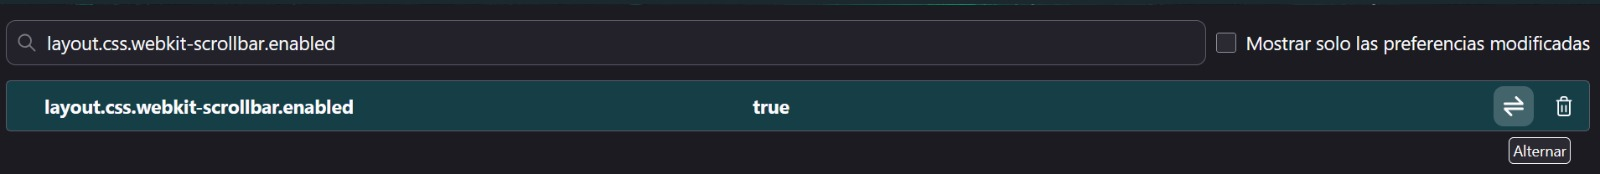
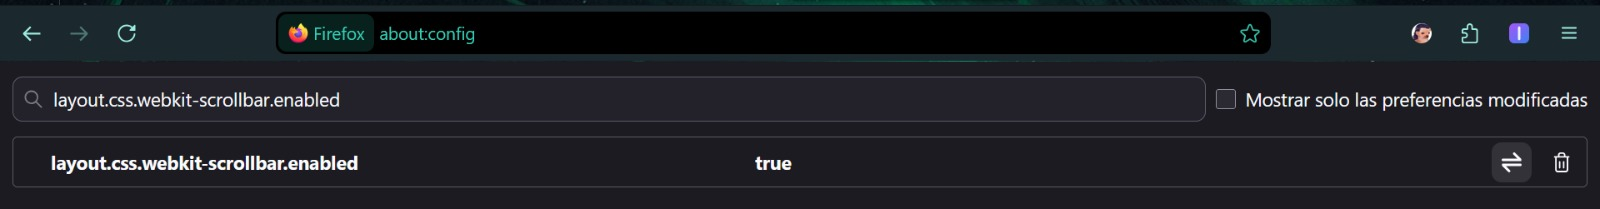
feat: add custom popup interface for Scrollbar Chroma extension including styling, structure, and tutorial lightbox.

diff --git a/popup/popup.css b/popup/popup.css
@@ -346,3 +346,133 @@ footer {
     color: #ffedd5;
 }
 
+/* Tutorial Image Thumbnail */
+.tutorial-image-container {
+    position: relative;
+    width: 100%;
+    max-height: 120px;
+    border-radius: 8px;
+    overflow: hidden;
+    cursor: pointer;
+    border: 1px solid rgba(255, 255, 255, 0.1);
+    box-shadow: 0 4px 12px rgba(0, 0, 0, 0.3);
+    transition: transform 0.2s ease, border-color 0.2s ease;
+    margin-top: 8px;
+}
+
+.tutorial-image-container:hover {
+    transform: translateY(-2px);
+    border-color: rgba(251, 191, 36, 0.5);
+}
+
+.tutorial-thumb {
+    width: 100%;
+    height: 120px;
+    object-fit: cover;
+    display: block;
+    filter: brightness(0.8);
+    transition: filter 0.2s ease;
+}
+
+.tutorial-image-container:hover .tutorial-thumb {
+    filter: brightness(0.95);
+}
+
+.tutorial-overlay {
+    position: absolute;
+    top: 0;
+    left: 0;
+    width: 100%;
+    height: 100%;
+    background: rgba(0, 0, 0, 0.4);
+    display: flex;
+    align-items: center;
+    justify-content: center;
+    opacity: 0;
+    transition: opacity 0.2s ease;
+}
+
+.tutorial-image-container:hover .tutorial-overlay {
+    opacity: 1;
+}
+
+.tutorial-overlay span {
+    color: white;
+    font-size: 11px;
+    font-weight: 600;
+    background: rgba(0, 0, 0, 0.6);
+    padding: 6px 12px;
+    border-radius: 20px;
+    border: 1px solid rgba(255, 255, 255, 0.1);
+    display: flex;
+    align-items: center;
+    gap: 4px;
+}
+
+/* Lightbox Modal */
+.lightbox {
+    display: none;
+    position: fixed;
+    z-index: 999999;
+    left: 0;
+    top: 0;
+    width: 100%;
+    height: 100%;
+    overflow: auto;
+    background-color: rgba(10, 10, 12, 0.85);
+    backdrop-filter: blur(8px);
+    -webkit-backdrop-filter: blur(8px);
+    align-items: center;
+    justify-content: center;
+    opacity: 0;
+    transition: opacity 0.3s ease;
+}
+
+.lightbox.active {
+    display: flex;
+    opacity: 1;
+}
+
+.lightbox-content {
+    margin: auto;
+    display: block;
+    max-width: 90%;
+    max-height: 85%;
+    border-radius: 12px;
+    box-shadow: 0 10px 30px rgba(0, 0, 0, 0.5);
+    border: 1px solid rgba(255, 255, 255, 0.15);
+    transform: scale(0.9);
+    transition: transform 0.3s ease;
+}
+
+.lightbox.active .lightbox-content {
+    transform: scale(1);
+}
+
+.lightbox-close {
+    position: absolute;
+    top: 15px;
+    right: 20px;
+    color: #f1f1f1;
+    font-size: 30px;
+    font-weight: bold;
+    transition: 0.3s;
+    cursor: pointer;
+    z-index: 1000000;
+    width: 36px;
+    height: 36px;
+    background: rgba(255, 255, 255, 0.1);
+    border-radius: 50%;
+    display: flex;
+    align-items: center;
+    justify-content: center;
+    line-height: 1;
+}
+
+.lightbox-close:hover,
+.lightbox-close:focus {
+    color: #fbbf24;
+    background: rgba(255, 255, 255, 0.2);
+    text-decoration: none;
+}
+

diff --git a/popup/popup.js b/popup/popup.js
@@ -375,4 +375,29 @@ document.addEventListener('DOMContentLoaded', () => {
             }
         });
     }
+
+    // Lightbox Modal para la imagen del tutorial
+    const openLightbox = document.getElementById('open-lightbox');
+    const lightboxModal = document.getElementById('lightbox-modal');
+    const lightboxClose = document.querySelector('.lightbox-close');
+
+    if (openLightbox && lightboxModal) {
+        openLightbox.addEventListener('click', () => {
+            lightboxModal.classList.add('active');
+        });
+
+        // Cerrar al hacer clic en la X
+        if (lightboxClose) {
+            lightboxClose.addEventListener('click', () => {
+                lightboxModal.classList.remove('active');
+            });
+        }
+
+        // Cerrar al hacer clic fuera de la imagen
+        lightboxModal.addEventListener('click', (e) => {
+            if (e.target === lightboxModal) {
+                lightboxModal.classList.remove('active');
+            }
+        });
+    }
 });

diff --git a/popup/popup.html b/popup/popup.html
@@ -315,6 +315,13 @@
                     <div style="background: rgba(74,222,128,0.08); border: 1px solid rgba(74,222,128,0.2); border-radius: 10px; padding: 12px;">
                         <p style="margin: 0; font-size: 11px; color: #4ade80; line-height: 1.5;">✅ <strong>Solo necesitás hacerlo una vez.</strong> Firefox recordará la configuración entre sesiones.</p>
                     </div>
+
+                    <div class="tutorial-image-container" id="open-lightbox">
+                        <img src="../assets/ejemplo.jpeg" alt="Tutorial Firefox" class="tutorial-thumb">
+                        <div class="tutorial-overlay">
+                            <span>🔍 Ampliar tutorial</span>
+                        </div>
+                    </div>
                 </div>
             </div>
         </div>
@@ -328,6 +335,13 @@
             <p class="status" id="status-message">Activo</p>
         </footer>
     </div>
+
+    <!-- Lightbox Modal -->
+    <div id="lightbox-modal" class="lightbox">
+        <span class="lightbox-close">&times;</span>
+        <img class="lightbox-content" id="lightbox-img" src="../assets/ejemplo.jpeg" alt="Tutorial Expandido">
+    </div>
+
     <script src="popup.js"></script>
 </body>
 </html>